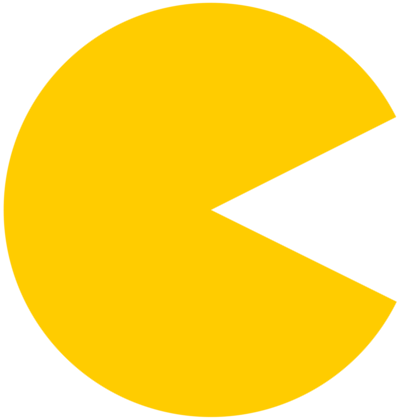
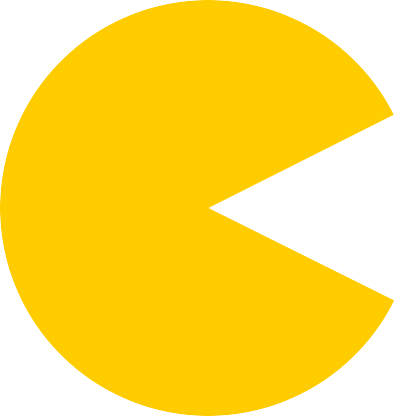
pacman rotates when changing direction

diff --git a/pacman.py b/pacman.py
@@ -18,76 +18,89 @@ from cocos.sprite import Sprite
 
 
 class PacmanLayer(Layer):
-    
-    #enable pyglet events
-    is_event_handler = True
 
-    def __init__(self):
-        super(PacmanLayer, self).__init__();
+	#enable pyglet events
+	is_event_handler = True
 
-        #create and add Sprites for pacman
-        self.pacman1 = Sprite(pyglet.resource.image('images/pacman1.png'));
-        self.pacman2 = Sprite(pyglet.resource.image('images/pacman2.png'));
-      
-        self.add(self.pacman1);
-        self.add(self.pacman2);
+	def __init__(self):
+		super(PacmanLayer, self).__init__();
 
-        self.pacman1.position = 320, 300;
-        self.pacman2.position = 320, 300;
+		#create and add Sprites for pacman
+		self.pacman1 = Sprite(pyglet.resource.image('images/pacman1.png'));
+		self.pacman2 = Sprite(pyglet.resource.image('images/pacman2.png'));
 
-        self.pacman1.scale = 0.1;
-        self.pacman2.scale = 0.1;
+		self.pacmans = [];
 
-        self.moveUp = MoveBy((0, 10), 0.1);
-        self.moveDown = MoveBy((0, -10), 0.1);
-        self.moveLeft = MoveBy((-10, 0), 0.1);
-        self.moveRight = MoveBy((10, 0), 0.1);
- 
-        self.pacman2.do(Repeat(Blink(1, 0.3)));
+		self.pacmans.append(self.pacman1);
+		self.pacmans.append(self.pacman2);
 
-        #Save pressed key
-        self.pressed_key = None;
+		for pacman in self.pacmans:
+			self.add(pacman);
+			pacman.position = 320, 300;
+			pacman.scale = 0.1;
 
-        #add schedule method
-        self.schedule(self.update);
-        
+		# self.add(self.pacman1);
+		# self.add(self.pacman2);
 
-    #Eventhandler for key presses
-    def on_key_press(self, keys, mod):
-        print("Key pressed ", keys);
-        if keys == key.RIGHT:
-            print("KEY RIGHT");
-            self.pressed_key = key.RIGHT;
-        if keys == key.LEFT:
-            print("KEY LEFT");
-            self.pressed_key = key.LEFT;
-        if keys == key.UP:
-            print("KEY UP");
-            self.pressed_key = key.UP;
-        if keys == key.DOWN:
-            print("KEY DOWN");
-            self.pressed_key = key.DOWN;
+		# self.pacman1.position = 320, 300;
+		# self.pacman2.position = 320, 300;
+
+		# self.pacman1.scale = 0.1;
+		# self.pacman2.scale = 0.1;
+
+		self.moveUp = MoveBy((0, 10), 0.1);
+		self.moveDown = MoveBy((0, -10), 0.1);
+		self.moveLeft = MoveBy((-10, 0), 0.1);
+		self.moveRight = MoveBy((10, 0), 0.1);
+		self.direction = self.moveRight;
+
+		self.pacman2.do(Repeat(Blink(1, 0.3)));
+
+		#Save pressed key
+		self.pressed_key = None;
+
+		#add schedule method
+		self.schedule(self.update);
 
 
+	#Eventhandler for key presses
+	def on_key_press(self, keys, mod):
+		print("Key pressed ", keys);
+		if keys == key.RIGHT:
+			print("KEY RIGHT");
+			self.pressed_key = key.RIGHT;
+		if keys == key.LEFT:
+			print("KEY LEFT");
+			self.pressed_key = key.LEFT;
+		if keys == key.UP:
+			print("KEY UP");
+			self.pressed_key = key.UP;
+		if keys == key.DOWN:
+			print("KEY DOWN");
+			self.pressed_key = key.DOWN;
 
-    # Method that is called with schedule() on every new frame
-    def update(self, director):
-        if self.pressed_key == key.RIGHT:
-            self.pacman1.do(Repeat(self.moveRight));
-            self.pacman2.do(Repeat(self.moveRight));
-        elif self.pressed_key == key.LEFT:
-            self.pacman1.do(Repeat(self.moveLeft));
-            self.pacman2.do(Repeat(self.moveLeft));
-        elif self.pressed_key == key.UP:
-            self.pacman1.do(Repeat(self.moveUp));
-            self.pacman2.do(Repeat(self.moveUp));
-        elif self.pressed_key == key.DOWN:
-            self.pacman1.do(Repeat(self.moveDown));
-            self.pacman2.do(Repeat(self.moveDown));
-        
+
+
+	# Method that is called with schedule() on every new frame
+	def update(self, director):
+		if self.pressed_key == key.RIGHT:
+			self.direction = self.moveRight;
+			self.pacman1.rotation = None;
+		elif self.pressed_key == key.LEFT:
+			self.direction = self.moveLeft;
+			self.pacman1.rotation = 180;
+		elif self.pressed_key == key.UP:
+			self.direction = self.moveUp;
+			self.pacman1.rotation = 270;
+		elif self.pressed_key == key.DOWN:
+			self.direction = self.moveDown;
+			self.pacman1.rotation = 90;
+		for pacman in self.pacmans:
+			pacman.do(self.direction);
+
 
 
 if __name__ == "__main__":
-    director.init(resizable=True, caption='HATman')
-    #director.window.set_fullscreen(True)
-    director.run(Scene(PacmanLayer()));
+	director.init(resizable=True, caption='HATman')
+	#director.window.set_fullscreen(True)
+	director.run(Scene(PacmanLayer()));
